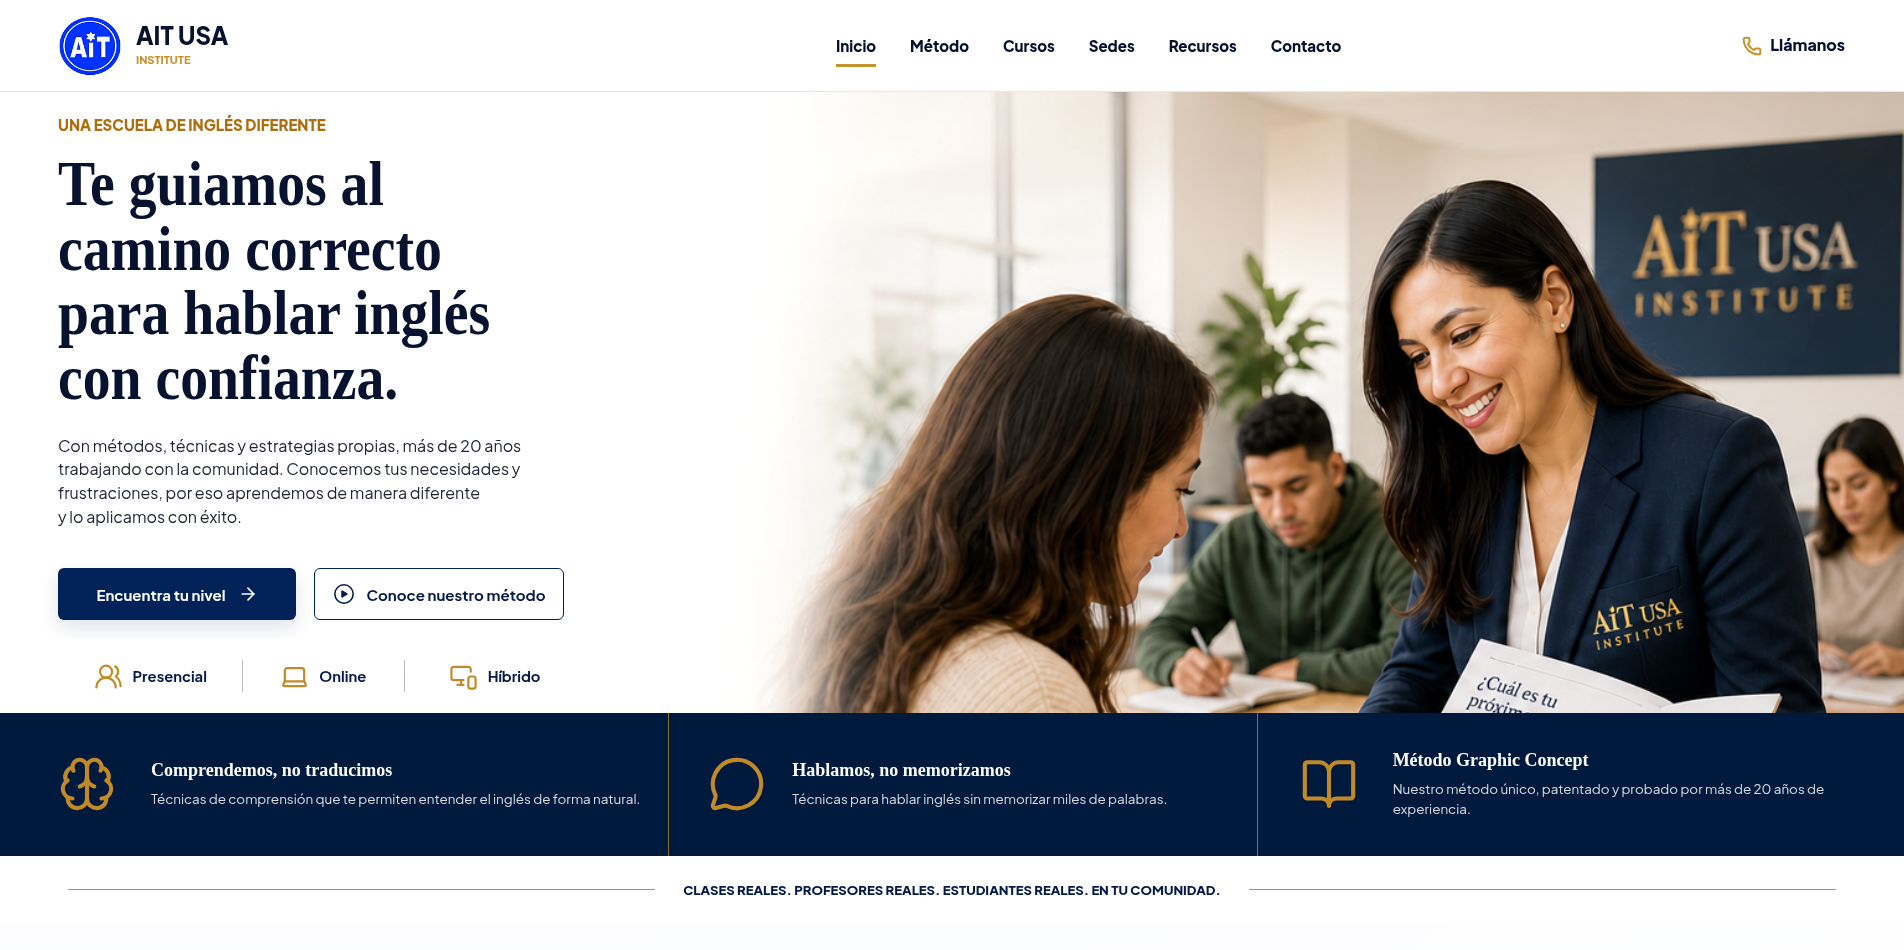
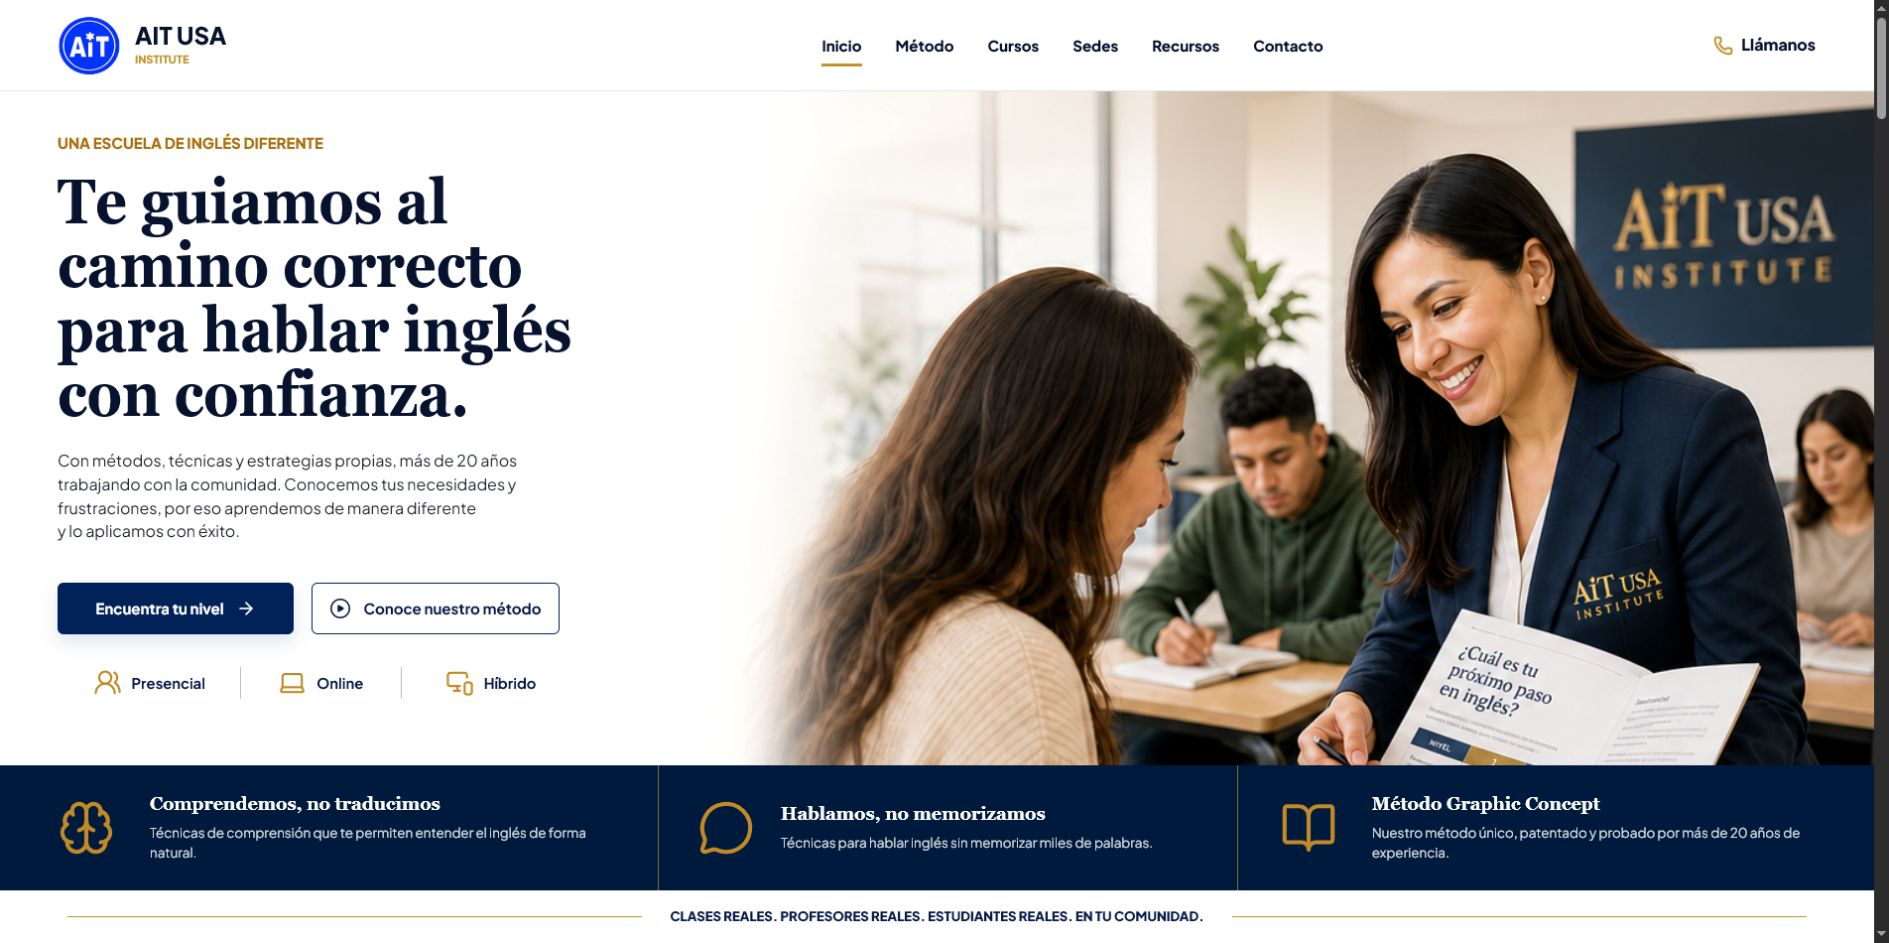
fix: fit complete hero in desktop viewport

diff --git a/src/styles.css b/src/styles.css
@@ -2629,13 +2629,11 @@ textarea {
 
 @media (min-width: 1181px) {
   .hero {
-    --hero-community-height: clamp(58px, 7.16svh, 68px);
-    --hero-main-height: clamp(
-      540px,
-      calc(100svh - 92px - var(--hero-proof-height) - var(--hero-community-height)),
-      621px
+    --hero-community-height: clamp(44px, 5.6svh, 56px);
+    --hero-proof-height: clamp(104px, 13.2svh, 132px);
+    --hero-main-height: calc(
+      100svh - 92px - var(--hero-proof-height) - var(--hero-community-height)
     );
-    --hero-proof-height: clamp(126px, 15.05svh, 143px);
   }
 
   .hero__visual {
@@ -2644,7 +2642,12 @@ textarea {
 
   .hero__visual img {
     width: 100vw;
-    transform: translate(calc(-42vw + 230px), -2.5%);
+    transform: translate(calc(-42vw + 230px), -4.5%);
+  }
+
+  .hero__modalities {
+    position: static;
+    margin-top: 12px;
   }
 
   .hero__proof-inner {
@@ -2672,6 +2675,12 @@ textarea {
 
   .hero__proof-inner h2 {
     white-space: nowrap;
+  }
+}
+
+@media (min-width: 1181px) and (min-height: 925px) {
+  .hero__copy {
+    padding-top: clamp(32px, 4.5svh, 48px);
   }
 }
 
@@ -2703,6 +2712,62 @@ textarea {
   }
 }
 
+@media (min-width: 1181px) and (max-height: 820px) {
+  .hero__copy {
+    padding-top: 14px;
+  }
+
+  .hero h1 {
+    margin-top: 10px;
+    font-size: clamp(3.1rem, 6.3svh, 3.5rem);
+  }
+
+  .hero__summary {
+    margin-top: 12px;
+    font-size: 0.9rem;
+    line-height: 1.34;
+  }
+
+  .hero__actions {
+    margin-top: 14px;
+  }
+
+  .hero__actions .button {
+    min-height: 44px;
+  }
+
+  .hero__modalities {
+    margin-top: 8px;
+  }
+
+  .hero__modalities a {
+    min-height: 54px;
+    padding-top: 8px;
+    padding-bottom: 8px;
+  }
+
+  .hero__proof-inner article {
+    gap: 18px;
+    padding-top: 10px;
+    padding-bottom: 10px;
+  }
+
+  .hero__proof-inner svg {
+    width: 48px;
+    height: 48px;
+  }
+
+  .hero__proof-inner h2 {
+    font-size: 1rem;
+  }
+
+  .hero__proof-inner p {
+    margin-top: 4px;
+    font-size: 0.75rem;
+    line-height: 1.3;
+  }
+}
+
 @media (min-width: 1181px) and (max-width: 1439px) {
   .hero__actions {
     width: min(
@@ -2714,7 +2779,7 @@ textarea {
 
   .hero__actions .button {
     min-width: 0;
-    min-height: 48px;
+    min-height: clamp(44px, 5.5svh, 48px);
     gap: 8px;
     padding: 10px;
     font-size: 0.84rem;
@@ -2748,7 +2813,7 @@ textarea {
   }
 
   .hero__modalities a {
-    min-height: 68px;
+    min-height: clamp(54px, 8svh, 68px);
     gap: 8px;
     padding: 10px 8px;
     font-size: 0.86rem;
@@ -2762,6 +2827,37 @@ textarea {
   .hero__modalities svg {
     width: 26px;
     height: 26px;
+  }
+
+  .hero__proof-inner article {
+    grid-template-columns: 48px minmax(0, 1fr);
+    gap: 18px;
+    padding-top: 10px;
+    padding-bottom: 10px;
+  }
+
+  .hero__proof-inner article:nth-child(2) {
+    gap: 18px;
+    padding-left: 28px;
+  }
+
+  .hero__proof-inner article:nth-child(3) {
+    padding-left: 28px;
+  }
+
+  .hero__proof-inner svg {
+    width: 48px;
+    height: 48px;
+  }
+
+  .hero__proof-inner h2 {
+    font-size: 1rem;
+  }
+
+  .hero__proof-inner p {
+    margin-top: 4px;
+    font-size: 0.75rem;
+    line-height: 1.3;
   }
 }
 

diff --git a/design-qa.md b/design-qa.md
@@ -206,6 +206,38 @@ The implementation preserves the source hierarchy: compact institute header, dom
 - Post-fix measurements: the 1904 x 950 composition ends at 923.97px with a 1904px-wide image; the 1867 x 847 composition ends at 846.98px with a 1867px-wide image. Both checks report zero viewport issues, console messages, or runtime exceptions.
 - Post-fix evidence: `screenshots/hero-reference-1904x950.png`, `screenshots/hero-short-1867x847.png`, and `/root/.openclaw/giuseppe-workspace/runtime/exports/aitusa-hero-viewport-fit/comparison-pass3-1904x950.png`.
 
+### Pass 12
+
+- P1: fitting the main stage, proof band, and community line into one desktop
+  viewport capped the photograph at 621px on taller displays. At 1898 x 938,
+  the proof band began at 713px and clipped the placement booklet and lower
+  classroom composition.
+- Fix: made the desktop main stage itself fill the available viewport below the
+  92px header, bounded between 621px and 960px. The image keeps its natural
+  aspect ratio and viewport-wide treatment; the taller frame reveals more of
+  the student, booklet, and table without distorting faces. The modalities stay
+  grouped beneath the CTAs instead of floating at the bottom of the taller
+  stage. Proof and community content now follow below the first desktop viewport.
+- Responsive checks cover 1904 x 950 and 1867 x 847, with the proof band starting
+  exactly at the main-stage boundary and the image covering the full stage.
+
+### Pass 13
+
+- P1: allowing the main stage to consume the full height below the header moved
+  the proof band and `Clases reales...` community line below the initial screen.
+- Fix: reserved responsive viewport space for the proof band and community line,
+  then assigned the remaining height to the main stage. Short desktop screens
+  receive a tighter type, control, modality, and proof rhythm while preserving
+  all approved content. The image remains undistorted and shifts upward slightly
+  to retain more of the placement booklet within the shorter frame.
+- Measured in the in-app browser at 1898 x 938, 1440 x 900, 1280 x 720, and
+  the 1181 x 700 desktop boundary. The community line ends at the viewport edge
+  in every case, all controls remain inside the main stage, and horizontal
+  overflow is zero.
+- Post-fix evidence: `screenshots/hero-reference-1904x950.png`,
+  `screenshots/hero-short-1867x847.png`, and
+  `screenshots/hero-tall-1898x938.png`.
+
 ## Follow-Up Polish
 
 - P3: the Lucide proof icons are intentionally simpler than the concept's generated illustrated icons, but they remain consistent, legible, accessible, and production-ready.

diff --git a/docs/design/approved-hero-spec.md b/docs/design/approved-hero-spec.md
@@ -84,8 +84,13 @@ Proof statements:
 - Headline, supporting copy, CTAs, and modalities finish inside the protected
   white field before the photograph becomes visually dominant.
 - Modalities appear as one connected row below the CTAs.
-- The modality strip is anchored directly to the bottom of the hero stage, with
-  no white gap before the proof band.
+- At 1181px and wider, the header, main hero stage, proof band, and community
+  line share one viewport-height budget. The proof band and community line use
+  compact responsive heights so the complete approved composition remains
+  visible on the initial desktop screen.
+- The image keeps its natural aspect ratio and shifts vertically within the
+  stage to protect the advisor, student, and placement booklet from the crop.
+- The modality strip stays grouped directly beneath the CTA row.
 - Between 1181px and 1439px, CTA and modality widths scale with the available
   copy field so controls remain clear of the photographic subject. Full Concept
   1 control dimensions return at 1440px and wider.
